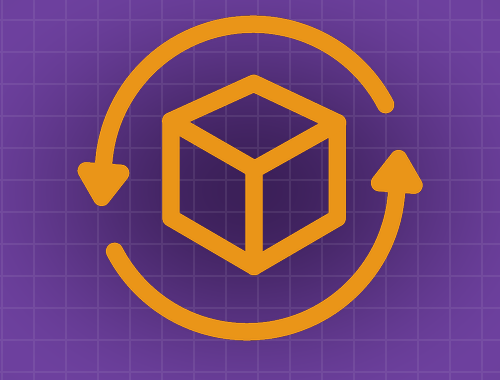
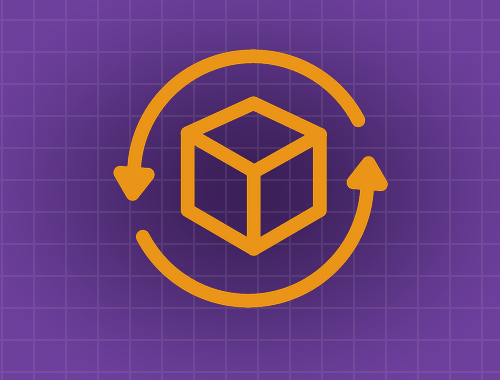
fix: finalize v1.2 release polish

diff --git a/tools/generate_power_icons.py b/tools/generate_power_icons.py
@@ -17,8 +17,21 @@ for source in POWER_DIR.iterdir():
         destination = source.with_name(f"{source.stem}_{size}{source.suffix.lower()}")
         if source.suffix.lower() == ".svg":
             text = source.read_text(encoding="utf-8")
-            text = re.sub(r'width="[^"]+"', f'width="{size}"', text, count=1)
-            text = re.sub(r'height="[^"]+"', f'height="{size}"', text, count=1)
+            svg_tag_match = re.search(r"<svg\b[^>]*>", text)
+            if svg_tag_match is None:
+                raise ValueError(f"Missing <svg> root in {source}")
+
+            svg_tag = svg_tag_match.group(0)
+            if re.search(r'\bwidth="[^"]+"', svg_tag):
+                svg_tag = re.sub(r'\bwidth="[^"]+"', f'width="{size}"', svg_tag, count=1)
+            else:
+                svg_tag = svg_tag.replace("<svg", f'<svg width="{size}"', 1)
+            if re.search(r'\bheight="[^"]+"', svg_tag):
+                svg_tag = re.sub(r'\bheight="[^"]+"', f'height="{size}"', svg_tag, count=1)
+            else:
+                svg_tag = svg_tag.replace("<svg", f'<svg height="{size}"', 1)
+
+            text = text[:svg_tag_match.start()] + svg_tag + text[svg_tag_match.end():]
             destination.write_text(text, encoding="utf-8", newline="\n")
         else:
             with Image.open(source) as image:

diff --git a/AK_ExusiaiCode/Cards/ArmorPiercingRound.cs b/AK_ExusiaiCode/Cards/ArmorPiercingRound.cs
@@ -40,8 +40,9 @@ public sealed class ArmorPiercingRound : ExusiaiCardTemplate
             .WithHitFx("vfx/vfx_attack_slash")
             .Execute(choiceContext);
 
-        await PowerCmd.Apply<VulnerablePower>(choiceContext, cardPlay.Target,
-            DynamicVars.Vulnerable.BaseValue, Owner.Creature, this);
+        if (AK_Exusiai.Characters.Exusiai.DidSpendAmmo(cardPlay))
+            await PowerCmd.Apply<VulnerablePower>(choiceContext, cardPlay.Target,
+                DynamicVars.Vulnerable.BaseValue, Owner.Creature, this);
     }
 
     protected override void OnUpgrade()

diff --git a/docs/archive/changelog_v1.md b/docs/archive/changelog_v1.md
@@ -1,62 +1,56 @@
 # V1.2 平衡性调整
 
-本记录以 V1.1 预发布版为对照。括号内数值为升级后的数值。
+本记录以 V1.1 版本为对照。括号内数值为升级后的数值。
 
 ## 新增与移除
 
 - **新增：虔诚**：1费技能。使抽牌堆中的1张牌获得天使，抽2（3）张牌。
 - **新增：歧途**：无法打出的诅咒。具有保留；被消耗或在战斗中变化时，失去1点力量与敏捷。
 - **新增：茫然**：1费诅咒。具有悔恨和消耗。
-- **移除：闪光弹**：原效果为给予所有敌人2（3）层虚弱和1层干扰并消耗；现由重做后的**福音摇滚！**承接群体减益定位。
+- **移除：闪光弹**：给予所有敌人2（3）层虚弱和1层干扰，消耗。
 
-## 卡牌重做
+## 卡牌调整
 
-- **免费派送**：由“使随机（升级后自选）1个遗物获得快递1；下一张牌免费打出”重做为“抽1张牌；获得中转1（2）神秘遗物；消耗”。神秘遗物由种子决定，首次使用后揭晓；此后所有同名牌显示该遗物的名称和详情。多人模式中每名玩家分别记录，并尽量分配不同遗物。
-- **铳弹协约**：由“使1（2）张手牌获得天使；结束回合；下回合开始时按手牌数获得弹药”改为“从弃牌堆取回1张牌并赋予天使；结束回合；下回合开始时获得等于手牌数（升级后额外+2）的弹药”。
-- **共感形态**：由“本场战斗所有卡牌获得天使”改为“回合开始时为1张手牌添加或刷新天使；每打出1张天使牌，抽1张牌”。基础版仍有虚无，升级后移除虚无。
-- **福音摇滚！**：由2（1）费稀有能力“回合开始时给1张手牌添加天使”重做为1费罕见技能“给予所有敌人2（3）层虚弱和1（2）层干扰；消耗”。
-- **射击技巧**：消耗弹药后的奖励由“抽2张牌”改为“对随机敌人额外造成一次等量伤害”；额外伤害不消耗弹药。
-- **喧闹**：由0费“敌人已有干扰时给予1（2）层干扰”改为1费“给予1（2）层干扰；敌人原有干扰每满2层，再给予1层”。
-- **天赋**：由“敌人每层干扰令其受到的伤害提高15%（25%）”改为“每层提高10%；升级后打出时先给予所有敌人1层干扰”。
-- **瞄准弱点！**：费用由0提高至1；触发条件由“有干扰的敌人”扩大为“任意有负面状态的敌人”，仍获得2（3）点火力。
-- **前路何在？**：由“造成12点伤害3（4）次，并将疑虑加入手牌”改为“造成8（10）点伤害3次，并将茫然加入手牌”。
-- **混乱狂飙**：由“抽3（4）张牌，将孢子心灵加入手牌”改为“抽2（3）张牌，将歧途加入弃牌堆”。
-
-## 攻击牌调整
-
-- **★**：伤害由7提高至8；升级效果仍由“升级1张手牌”变为“升级所有手牌”。
-- **武装护送**：伤害由10（14）降低至8（12）；中转1开心小花不变。
-- **虔心十字**：每段伤害由9（12）降低至6（9），攻击2次及为1张手牌添加天使不变。
-- **摇滚！**：伤害由10（14）降低至8（10）；干扰由固定1层提高至1（2）层。
-- **干扰打击**：基础伤害由12（16）降低至10（14）；按目标干扰层数增加攻击次数的机制不变。
-- **改装不当**：群体每段伤害由12（14）降低至9（12）；负面牌由“将笨拙加入弃牌堆”改为“将悔恨加入手牌”。
-- **以铳起誓**：伤害由30（35）降低至20（25）；天使以及生成圣城净化（+）的效果不变。
-- **扫射模式**：每段伤害由13（16）降低至10（14），仍攻击4次。
-- **派对时间！**：攻击次数由25次降低至15次；每段伤害2（3）及生成睡眠不佳不变。
-- **愿主指引**：升级伤害由14提高至15，基础伤害11及生成圣城指引（+）不变。
-
-## 技能与能力牌调整
-
-- **快速弹匣**：获得弹药由2（3）提高至2（4），抽2张牌不变。
-- **坚定之心**：受伤的加入位置由弃牌堆改为手牌；仍获得15（20）点格挡并加入2张受伤。
-- **借贷**：债务的加入位置由弃牌堆改为抽牌堆；仍获得45（60）金币。
-- **企鹅标快**：给予目标遗物的快递由7降低至5；获得2个中转1（2）随机遗物不变。
-- **企鹅跨境**：给予目标遗物的快递由5降低至4；由“使1个中转遗物获得中转3（4）”改为“使1（2）个中转遗物各获得中转3”。
-- **圣城怜悯**：由2费罕见调整为3（2）费稀有；格挡由10（14）调整为固定8；仍为手牌中所有非天使牌添加天使。
-- **圣城威光**：天使牌计数由“不含消耗堆”改为“包含所有牌堆”。
-- **圣城之拥**：费用由3降低至2；每张天使牌提供的单次格挡由5（8）提高至6（9）。
-- **圣城指引**：抽牌由3（4）降低至2（3），天使与消耗不变。
-- **圣城感召**：触发翱翔所需的单回合天使牌数由5张降低至3张；升级仍使费用降低1。
-- **优秀毕业生**：在“使所有敌人的干扰翻倍（三倍）”之后，新增给予所有敌人1层干扰。
-- **圣徒行记**：费用由1提高至2（1）；永久成长由每次1（2）点统一为每次1点火力。
-- **过载模式**：由“回合结束时保留全部剩余弹药”改为“本回合结束时保留一半弹药”。
-- **茫然**：移除保留。
+- **★**：伤害7 -> 8。
+- **穿甲弹**：无条件给予1（2）层易伤 -> 若本次攻击消耗弹药，给予1（2）层易伤。
+- **射击技巧**：消耗弹药后抽2张牌 -> 消耗弹药后对随机敌人额外造成一次等量伤害；额外伤害不消耗弹药。
+- **武装护送**：伤害10（14） -> 8（12）。
+- **快速弹匣**：弹药2（3） -> 2（4）。
+- **虔心十字**：每段伤害9（12） -> 6（9）。
+- **摇滚！**：伤害10（14） -> 8（10）；干扰1 -> 1（2）。
+- **干扰打击**：伤害12（16） -> 10（14）。
+- **喧闹**：0费，敌人已有干扰时给予1（2）层干扰 -> 1费，给予1（2）层干扰，敌人原有干扰每满2层，再给予1层。
+- **天赋**：敌人每层干扰使其受到的伤害提高15%（25%） -> 每层提高10%；升级后打出时先给予所有敌人1层干扰。
+- **瞄准弱点！**：0费，有干扰的敌人使你获得2（3）点火力 -> 1费，任意有负面状态的敌人使你获得2（3）点火力。
+- **改装不当**：对所有敌人造成12（14）点伤害2次，将笨拙加入弃牌堆 -> 对所有敌人造成9（12）点伤害2次，将悔恨加入手牌。
+- **以铳起誓**：伤害30（35） -> 20（25）。
+- **扫射模式**：每段伤害13（16） -> 10（14）。
+- **前路何在？**：造成12点伤害3（4）次，将疑虑加入手牌 -> 造成8（10）点伤害3次，将茫然加入手牌。
+- **派对时间！**：攻击次数25 -> 15。
+- **愿主指引**：伤害11（14） -> 11（15）。
+- **免费派送**：使随机（升级后自选）1个遗物获得快递1；下一张牌免费打出 -> 抽1张牌；获得中转1（2）神秘遗物；消耗。神秘遗物由种子决定，首次使用后揭晓；此后所有同名牌显示该遗物的名称和详情。多人模式中每名玩家分别记录，并尽量分配不同遗物。
+- **企鹅标快**：快递7 -> 5。
+- **企鹅跨境**：快递5 -> 4；使1个中转遗物获得中转3（4） -> 使1（2）个中转遗物各获得中转3。
+- **坚定之心**：将2张受伤加入弃牌堆 -> 将2张受伤加入手牌。
+- **借贷**：将债务加入弃牌堆 -> 将债务加入抽牌堆。
+- **福音摇滚！**：2（1）费稀有能力牌，回合开始时给1张手牌添加天使 -> 1费罕见技能牌，给予所有敌人2（3）层虚弱和1（2）层干扰，消耗。
+- **圣城怜悯**：2费罕见，格挡10（14） -> 3（2）费稀有，格挡8。
+- **圣城威光**：不计算消耗堆中的天使牌 -> 计算所有牌堆中的天使牌。
+- **圣城之拥**：费用3 -> 2；每张天使牌提供的格挡5（8） -> 6（9）。
+- **圣城指引**：抽牌3（4） -> 2（3）。
+- **圣城感召**：触发翱翔所需的单回合天使牌数5 -> 3。
+- **优秀毕业生**：使所有敌人的干扰翻倍（三倍） -> 使所有敌人的干扰翻倍（三倍），再给予所有敌人1层干扰。
+- **圣徒行记**：费用1 -> 2（1）；永久增加火力1（2） -> 1。
+- **过载模式**：回合结束时保留全部剩余弹药 -> 本回合结束时保留一半弹药。
+- **铳弹协约**：使1（2）张手牌获得天使；结束回合；下回合开始时按手牌数获得弹药 -> 从弃牌堆取回1张牌并赋予天使；结束回合；下回合开始时获得等于手牌数（升级后+2）的弹药。
+- **共感形态**：本场战斗所有卡牌获得天使 -> 回合开始时为1张手牌添加或刷新天使；每打出1张天使牌，抽1张牌。基础版仍有虚无，升级后移除虚无。
+- **混乱狂飙**：抽3（4）张牌，将孢子心灵加入手牌 -> 抽2（3）张牌，将歧途加入弃牌堆。
 
 ## 遗物调整
 
-- **能天使的杰作**：战斗开始时的弹药由8提高至10，火力由3降低至1。
-- **火力电台**：由“弹药伤害加倍，回合开始失去1弹药”重做为“同一回合内每消耗4发弹药，获得1点火力”。过载期间视为正确消耗的弹药同样计入。
-- **主-主机**：效果明确为战斗中“每次”获得诅咒牌时获得1点能量，功能不变。
+- **能天使的杰作**：战斗开始时弹药8 -> 10；火力3 -> 1。
+- **火力电台**：弹药伤害加倍，回合开始失去1弹药 -> 同一回合内每消耗4发弹药，获得1点火力；过载期间视为正确消耗的弹药同样计入。
+- **主-主机**：描述明确为战斗中每次获得诅咒牌时获得1点能量，效果不变。
 
 ## 规则与界面
 
